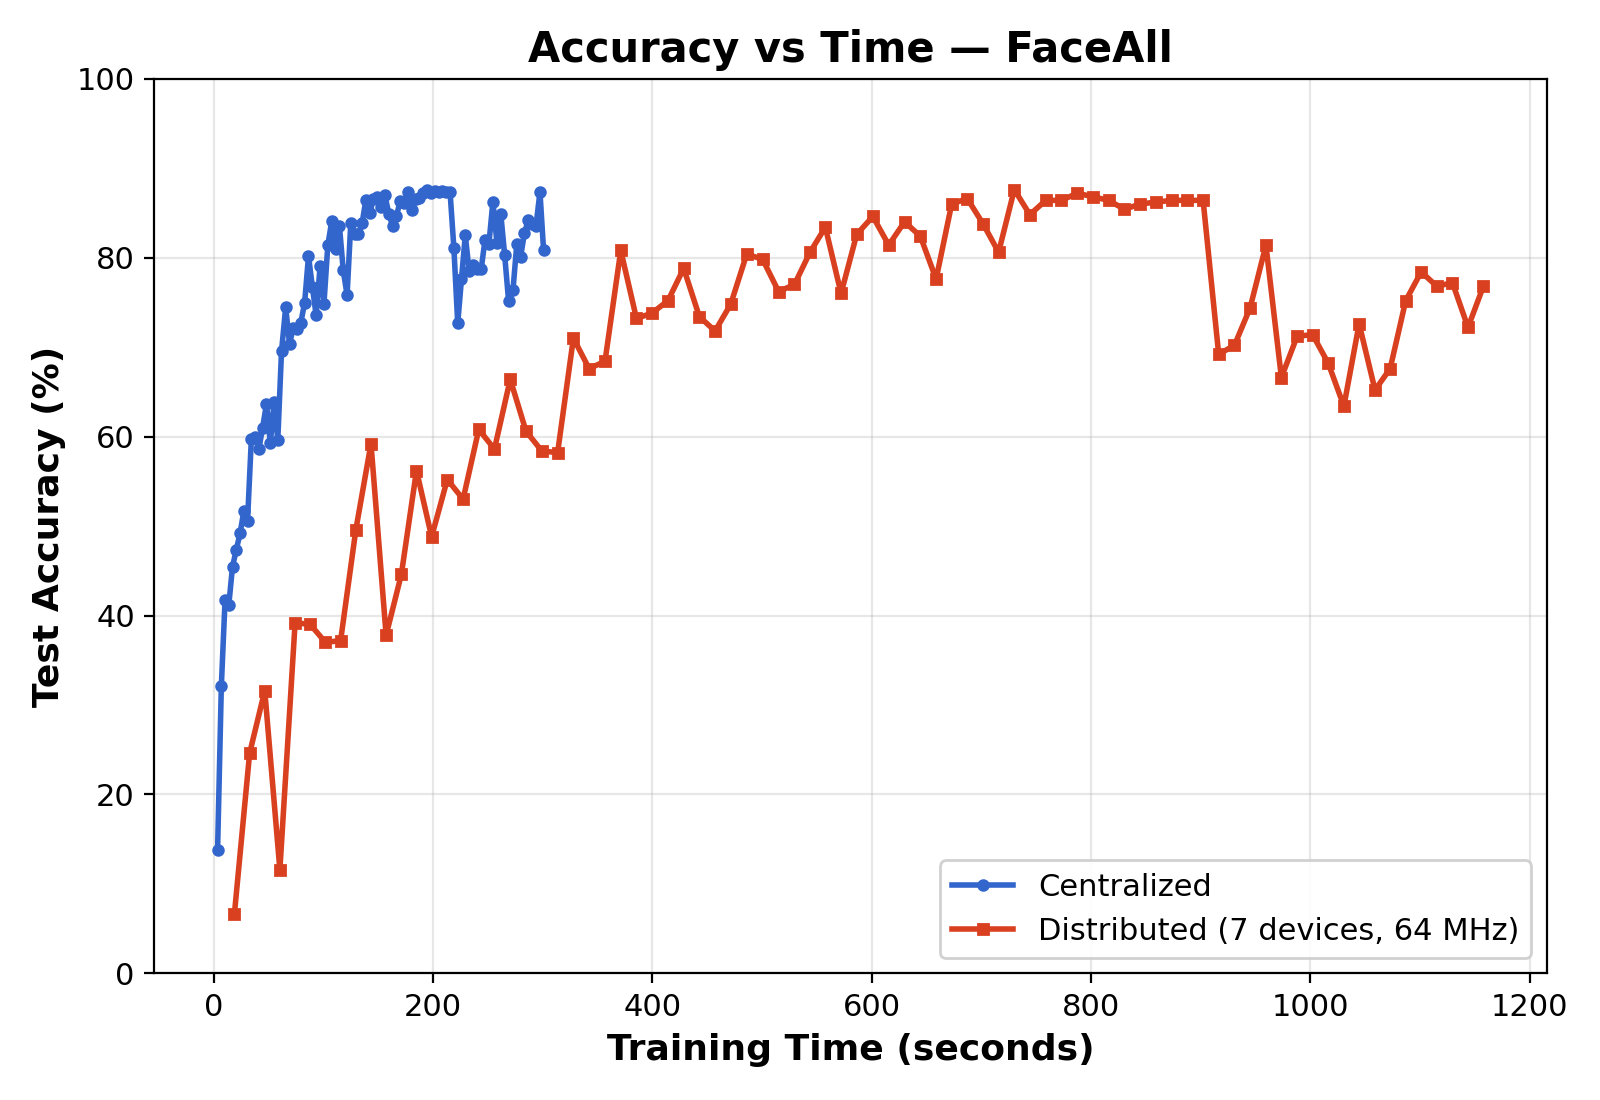
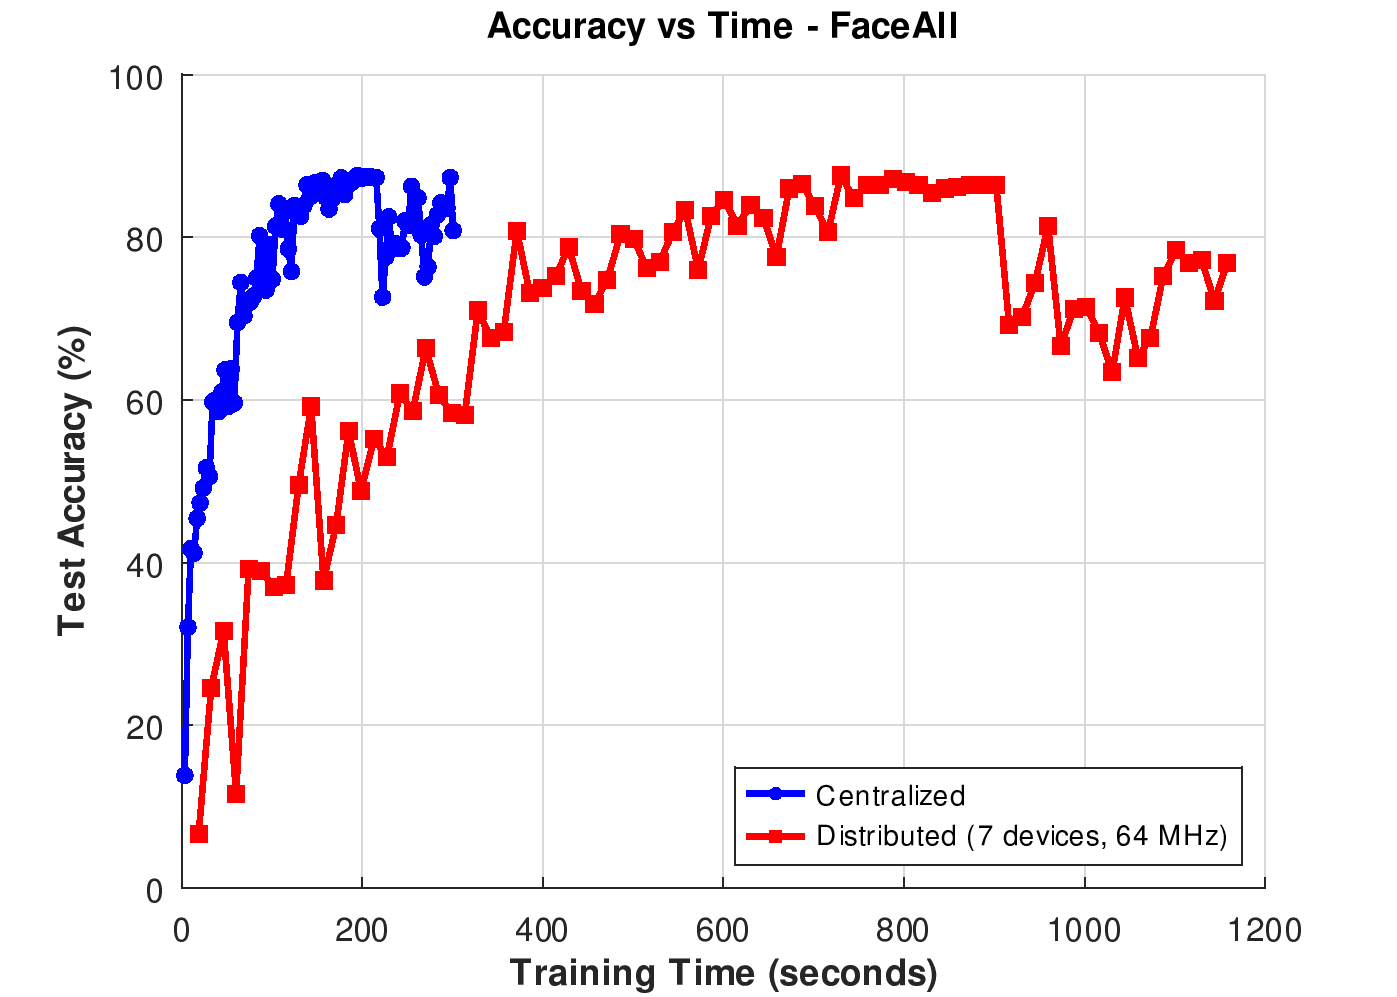
Install Octave, fix .m scripts for Octave compatibility, regenerate plots
- Rewrote all .m scripts for GNU Octave 8.4 compatibility:
  readtable -> csvread/textscan, isfile -> exist, saveas -> print
  figure visible with GNUTERM=dumb for headless WSL rendering
- Run via: xvfb-run octave-cli --no-gui plotting/plot_all.m
- All 5 plots regenerated successfully

diff --git a/plotting/plot_memory_consumption.m b/plotting/plot_memory_consumption.m
@@ -5,41 +5,59 @@
 %
 %  Reads: results/csv/memory_consumption.csv
 %  Format: dataset, centralized_kb, distributed_avg_kb, distributed_std_kb
+%
+%  Compatible with both MATLAB and GNU Octave.
 
 clear; clc; close all;
+graphics_toolkit('gnuplot');
+setenv('GNUTERM', 'dumb');
+warning('off', 'all');
 
 csv_file = fullfile('..', 'results', 'csv', 'memory_consumption.csv');
 
-if ~isfile(csv_file)
+if ~exist(csv_file, 'file')
     error('CSV file not found: %s\nRun parse_results.py first.', csv_file);
 end
 
-T = readtable(csv_file);
-n = height(T);
+% Read CSV (skip header): dataset(text), centralized_kb, dist_avg_kb, dist_std_kb
+fid = fopen(csv_file, 'r');
+header = fgetl(fid);
+raw = textscan(fid, '%s%f%f%f', 'Delimiter', ',');
+fclose(fid);
 
-% Prepare data matrix: rows = datasets, cols = [centralized, distributed_avg]
-data = [T.centralized_kb, T.distributed_avg_kb];
-err_data = [zeros(n, 1), T.distributed_std_kb];  % Error bars (std) for distributed only
+ds_labels  = raw{1};
+cent_kb    = raw{2};
+dist_avg   = raw{3};
+dist_std   = raw{4};
+n = numel(ds_labels);
 
-ds_labels = T.dataset;
 for i = 1:n
     ds_labels{i} = strrep(ds_labels{i}, '_', '\_');
 end
 
-figure('Name', 'Memory Consumption Comparison', 'Position', [200, 200, 800, 550]);
+data = [cent_kb, dist_avg];
+
+hf = figure();
+set(hf, 'PaperPositionMode', 'auto', 'Position', [200, 200, 800, 550]);
 
 b = bar(data, 'grouped');
-b(1).FaceColor = [0.2, 0.4, 0.8];   % Blue for centralized
-b(2).FaceColor = [0.85, 0.25, 0.1];  % Red for distributed
+set(b(1), 'FaceColor', [0.2, 0.4, 0.8]);
+set(b(2), 'FaceColor', [0.85, 0.25, 0.1]);
 
 hold on;
 
-% Add error bars for distributed (std across devices)
+% Error bars for distributed bars (Octave-compatible syntax)
+x_err = (1:n)' + 0.14;
+errorbar(x_err, dist_avg, dist_std, 'k');
+
+% Value labels
 for i = 1:n
-    x_dist = b(2).XEndPoints(i);
-    y_dist = b(2).YEndPoints(i);
-    errorbar(x_dist, y_dist, err_data(i, 2), 'k', 'LineWidth', 1.5, ...
-             'CapSize', 10);
+    text(i - 0.14, cent_kb(i) + 30, sprintf('%.0f', cent_kb(i)), ...
+         'HorizontalAlignment', 'center', 'VerticalAlignment', 'bottom', ...
+         'FontSize', 10, 'FontWeight', 'bold');
+    text(i + 0.14, dist_avg(i) + dist_std(i) + 8, sprintf('%.1f', dist_avg(i)), ...
+         'HorizontalAlignment', 'center', 'VerticalAlignment', 'bottom', ...
+         'FontSize', 10, 'FontWeight', 'bold');
 end
 
 hold off;
@@ -50,20 +68,11 @@ ylabel('Memory Consumption (KB)', 'FontSize', 13, 'FontWeight', 'bold');
 title('Memory Consumption: Centralized vs Distributed', ...
       'FontSize', 15, 'FontWeight', 'bold');
 legend({'Centralized (Single Device)', ...
-        'Distributed (Avg over 7 Devices ± Std)'}, ...
+        'Distributed (Avg per Device +/- Std)'}, ...
        'Location', 'northwest', 'FontSize', 11);
 grid on;
 
-% Add value labels
-for i = 1:length(b)
-    xtips = b(i).XEndPoints;
-    ytips = b(i).YEndPoints;
-    labels = arrayfun(@(v) sprintf('%.1f', v), ytips, 'UniformOutput', false);
-    text(xtips, ytips, labels, 'HorizontalAlignment', 'center', ...
-         'VerticalAlignment', 'bottom', 'FontSize', 10, 'FontWeight', 'bold');
-end
-
-% Save
-saveas(gcf, fullfile('..', 'results', 'memory_consumption.png'));
-saveas(gcf, fullfile('..', 'results', 'memory_consumption.fig'));
-fprintf('Saved: memory_consumption.png\n');
+out_png = fullfile('..', 'results', 'memory_consumption.png');
+print(hf, out_png, '-dpng', '-r200');
+close(hf);
+fprintf('Saved: %s\n', out_png);

diff --git a/plotting/plot_inference_latency.m b/plotting/plot_inference_latency.m
@@ -5,32 +5,43 @@
 %
 %  Reads: results/csv/inference_latency.csv
 %  Format: dataset, centralized_ms, distributed_ms
+%
+%  Compatible with both MATLAB and GNU Octave.
 
 clear; clc; close all;
+graphics_toolkit('gnuplot');
+setenv('GNUTERM', 'dumb');
+warning('off', 'all');
 
 csv_file = fullfile('..', 'results', 'csv', 'inference_latency.csv');
 
-if ~isfile(csv_file)
+if ~exist(csv_file, 'file')
     error('CSV file not found: %s\nRun parse_results.py first.', csv_file);
 end
 
-T = readtable(csv_file);
-n = height(T);
+% Read CSV (skip header): col1=dataset(text), col2=centralized_ms, col3=distributed_ms
+fid = fopen(csv_file, 'r');
+header = fgetl(fid);  % skip header
+raw = textscan(fid, '%s%f%f', 'Delimiter', ',');
+fclose(fid);
 
-% Prepare data matrix: rows = datasets, cols = [centralized, distributed]
-data = [T.centralized_ms, T.distributed_ms];
-ds_labels = T.dataset;
+ds_labels = raw{1};
+cent_ms   = raw{2};
+dist_ms   = raw{3};
+n = numel(ds_labels);
 
-% Clean up dataset names for display
 for i = 1:n
     ds_labels{i} = strrep(ds_labels{i}, '_', '\_');
 end
 
-figure('Name', 'Inference Latency Comparison', 'Position', [150, 150, 800, 550]);
+data = [cent_ms, dist_ms];
+
+hf = figure();
+set(hf, 'PaperPositionMode', 'auto', 'Position', [150, 150, 800, 550]);
 
 b = bar(data, 'grouped');
-b(1).FaceColor = [0.2, 0.4, 0.8];   % Blue for centralized
-b(2).FaceColor = [0.85, 0.25, 0.1];  % Red for distributed
+set(b(1), 'FaceColor', [0.2, 0.4, 0.8]);   % Blue for centralized
+set(b(2), 'FaceColor', [0.85, 0.25, 0.1]);  % Red for distributed
 
 set(gca, 'XTickLabel', ds_labels, 'FontSize', 12);
 xlabel('Dataset', 'FontSize', 13, 'FontWeight', 'bold');
@@ -42,16 +53,19 @@ legend({'Centralized (Computation only)', ...
        'Location', 'northwest', 'FontSize', 11);
 grid on;
 
-% Add value labels on top of bars
-for i = 1:length(b)
-    xtips = b(i).XEndPoints;
-    ytips = b(i).YEndPoints;
-    labels = arrayfun(@(v) sprintf('%.2f', v), ytips, 'UniformOutput', false);
-    text(xtips, ytips, labels, 'HorizontalAlignment', 'center', ...
-         'VerticalAlignment', 'bottom', 'FontSize', 10, 'FontWeight', 'bold');
+% Value labels on bars (Octave-compatible positioning)
+for i = 1:n
+    % Centralized bar (left of center)
+    text(i - 0.14, cent_ms(i) + 0.15, sprintf('%.2f', cent_ms(i)), ...
+         'HorizontalAlignment', 'center', 'VerticalAlignment', 'bottom', ...
+         'FontSize', 10, 'FontWeight', 'bold');
+    % Distributed bar (right of center)
+    text(i + 0.14, dist_ms(i) + 0.15, sprintf('%.2f', dist_ms(i)), ...
+         'HorizontalAlignment', 'center', 'VerticalAlignment', 'bottom', ...
+         'FontSize', 10, 'FontWeight', 'bold');
 end
 
-% Save
-saveas(gcf, fullfile('..', 'results', 'inference_latency.png'));
-saveas(gcf, fullfile('..', 'results', 'inference_latency.fig'));
-fprintf('Saved: inference_latency.png\n');
+out_png = fullfile('..', 'results', 'inference_latency.png');
+print(hf, out_png, '-dpng', '-r200');
+close(hf);
+fprintf('Saved: %s\n', out_png);

diff --git a/plotting/plot_accuracy_vs_time.m b/plotting/plot_accuracy_vs_time.m
@@ -4,54 +4,59 @@
 %
 %  Reads CSV files from: results/csv/accuracy_vs_time_<dataset>_<model>.csv
 %  Format: epoch, time_s, train_acc, test_acc
+%
+%  Compatible with both MATLAB and GNU Octave.
 
 clear; clc; close all;
+graphics_toolkit('gnuplot');
+setenv('GNUTERM', 'dumb');
+warning('off', 'all');
 
 datasets = {'Cricket_X', 'ECG5000', 'FaceAll'};
 csv_dir = fullfile('..', 'results', 'csv');
 
 for d = 1:length(datasets)
     ds = datasets{d};
-    
-    % Read centralized data
+
     cent_file = fullfile(csv_dir, sprintf('accuracy_vs_time_%s_centralized.csv', ds));
     dist_file = fullfile(csv_dir, sprintf('accuracy_vs_time_%s_distributed.csv', ds));
-    
-    figure('Name', sprintf('Accuracy vs Time - %s', ds), ...
-           'Position', [100 + (d-1)*50, 100 + (d-1)*50, 700, 500]);
-    
+
+    hf = figure();
+    set(hf, 'PaperPositionMode', 'auto', 'Position', [100, 100, 700, 500]);
+
     hold on;
     legends = {};
-    
-    if isfile(cent_file)
-        cent = readtable(cent_file);
-        plot(cent.time_s, cent.test_acc, 'b-o', 'LineWidth', 2, ...
+
+    if exist(cent_file, 'file')
+        cent = csvread(cent_file, 1, 0);  % skip header row
+        % columns: epoch(1) time_s(2) train_acc(3) test_acc(4)
+        plot(cent(:,2), cent(:,4), 'b-o', 'LineWidth', 2, ...
              'MarkerSize', 4, 'MarkerFaceColor', 'b');
         legends{end+1} = 'Centralized';
     end
-    
-    if isfile(dist_file)
-        dist = readtable(dist_file);
-        plot(dist.time_s, dist.test_acc, 'r-s', 'LineWidth', 2, ...
+
+    if exist(dist_file, 'file')
+        dist = csvread(dist_file, 1, 0);
+        plot(dist(:,2), dist(:,4), 'r-s', 'LineWidth', 2, ...
              'MarkerSize', 4, 'MarkerFaceColor', 'r');
         legends{end+1} = 'Distributed (7 devices, 64 MHz)';
     end
-    
+
     hold off;
-    
+
     xlabel('Training Time (seconds)', 'FontSize', 13, 'FontWeight', 'bold');
     ylabel('Test Accuracy (%)', 'FontSize', 13, 'FontWeight', 'bold');
-    title(sprintf('Accuracy vs Time — %s', strrep(ds, '_', '\_')), ...
+    title(sprintf('Accuracy vs Time - %s', strrep(ds, '_', '\_')), ...
           'FontSize', 15, 'FontWeight', 'bold');
     legend(legends, 'Location', 'southeast', 'FontSize', 11);
     grid on;
     set(gca, 'FontSize', 12);
     ylim([0 100]);
-    
-    % Save figure
-    saveas(gcf, fullfile('..', 'results', sprintf('accuracy_vs_time_%s.png', ds)));
-    saveas(gcf, fullfile('..', 'results', sprintf('accuracy_vs_time_%s.fig', ds)));
-    fprintf('Saved: accuracy_vs_time_%s.png\n', ds);
+
+    out_png = fullfile('..', 'results', sprintf('accuracy_vs_time_%s.png', ds));
+    print(hf, out_png, '-dpng', '-r200');
+    close(hf);
+    fprintf('Saved: %s\n', out_png);
 end
 
 fprintf('\nAll Accuracy vs Time plots generated.\n');

diff --git a/plotting/plot_all.m b/plotting/plot_all.m
@@ -1,15 +1,15 @@
 %% plot_all.m
-%  Master MATLAB script — generates all 5 plots:
+%  Master script — generates all 5 plots (compatible with MATLAB & Octave):
 %    (a) 3 × Accuracy vs Time (one per dataset)
 %    (b) 1 × Inference Latency bar chart
 %    (c) 1 × Memory Consumption bar chart
 %
 %  Prerequisites:
-%    1. Run experiments:  bash run_all.sh
+%    1. Run experiments:  bash run_all_local.sh
 %    2. Parse results:    python3 parse_results.py
-%    3. Then run this:    matlab -r "run('plotting/plot_all.m')"
+%    3. Then run this:    octave-cli --no-gui plotting/plot_all.m
 %
-%  Or from MATLAB GUI: cd into PiLot/plotting/ and run plot_all
+%  Or:  cd PiLot/plotting/ && octave-cli --no-gui plot_all.m
 
 fprintf('=== PiLot Results Plotting ===\n\n');
 
